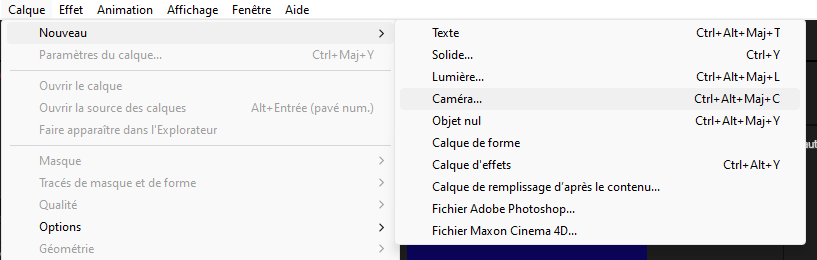
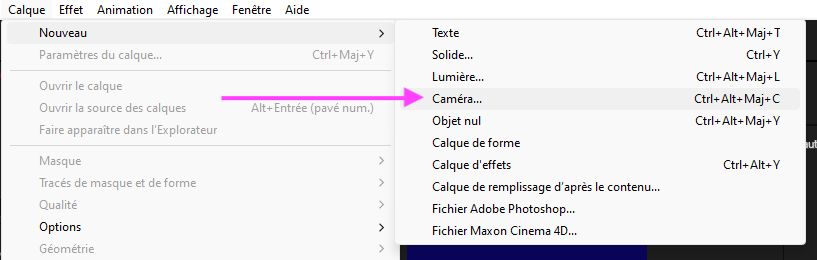
cours11

Changed region(s): [[0.2754, 0.3385, 0.5202, 0.4]]

diff --git a/docs/582-214-animation2d-jf-mm/exercices_ae/tp2/step1.md b/docs/582-214-animation2d-jf-mm/exercices_ae/tp2/step1.md
@@ -33,6 +33,8 @@ Pour orienter votre brainstorming, voici quelques sujets à considérer :
 
 - [ ] Créer un documents avec les informations ci-dessus.
 
+---
+
 Voici une liste de vidéo explainer pour vous aider à faire vos choix :
 
 * [Understanding Perception: How We Experience the Meaning We Create](https://motionographer.com/2015/09/18/understanding-perception-how-we-experience-the-meaning-we-create/)
@@ -46,6 +48,19 @@ Voici une liste de vidéo explainer pour vous aider à faire vos choix :
 * [What would happen if you didn’t drink water?](https://www.youtube.com/watch?v=9iMGFqMmUFs)
 * [The science of laughter](https://www.youtube.com/watch?v=Xu-QfE_1ksk)
 * [Animation vs. Physics](https://www.youtube.com/watch?v=ErMSHiQRnc8)
+* sinon : https://vimeo.com/search?q=explainer%20video
+
+### Esthétisme
+
+Dans la phase de brainstorming, vous devrez également penser à l'aspect graphique de votre animation. Il existe de nombreux styles possible, voici une liste suggérée :
+
+* Animation 2D (style bande dessinée)
+* Motion Graphics (vectoriel avec des formes simples, comme le kino)
+* Kinetic text (animation de texte)
+* Whiteboard animation (simulation d'un dessin synchro avec l'audio)
+* Collage animation (à la south park)
+
+- [ ] Choisir l'esthétisme recherché.
 
 ## Moodboard
 
@@ -60,7 +75,7 @@ Il contient des images, couleurs et typographies qui traduisent l’esthétique 
 * [Exemple 1](https://www.figma.com/board/QCUCe07qWFr5S3OCBpxcgj/Mood-Board--Exemple2-?t=fZTJa3oEaMMKYAyr-6)
 * [Exemple 2](https://www.figma.com/board/DboRKo6NLn4WRTPzqdMBWf/Mood-Board--Exemple1-?t=fZTJa3oEaMMKYAyr-6)
 
-- [ ] Faire un moodboard.
+- [ ] Faire un moodboard à partir du modèle fourni.
 
 ## Recherche et création de médias
 
@@ -87,11 +102,15 @@ Il contient des images, couleurs et typographies qui traduisent l’esthétique 
   * [Unsplash](https://unsplash.com/)
   * [Pexels](https://www.pexels.com/fr-fr/)
 
-## Script et storyboard
+## Storyboard
 
-![](./writing.gif){.w-100}
+![](./storyboard.gif){.w-100}
 
-Voici la structure narrative que vous devrez respecter :
+Un storyboard est un outil de planification visuelle utilisé pour représenter scène par scène une vidéo ou une animation.
+
+Dans cette partie, vous devrez d'abord rédiger un scénario (appelé structure narrative) et ensuite dessiner un storyboard.
+
+### Structure narrative
 
 | Étape                         | Fonction narrative                           | Contenu typique                                             |
 |-------------------------------|----------------------------------------------|-------------------------------------------------------------|
@@ -104,18 +123,22 @@ Voici la structure narrative que vous devrez respecter :
 | **7. Ouverture / Conclusion** | Imaginer un futur meilleur                   | Montrer une version positive du monde si on agit            |
 | **8. Crédits**                | n/a                                          | n/a                                                         |
 
+### Ligne du temps
+
+![](./timeline.jpg){.w-100}
+
 Sur une feuille de papier ou à l'ordinateur, commencez par faire une ligne du temps horizontale de 0 à 60 secondes.
 
 Placez ensuite chacune des étapes dans votre ligne du temps.
 
-Pour chaque élément placé, écrivez les grandes lignes de votre histoire. Des informations à raconter.
+Pour chaque étape, écrivez les grandes lignes de votre histoire. Les informations à raconter et comment les présenter.
 
-Une bonne manière de timer son animation est de générer le texte avant de faire l'animation !
+!!! top "Petit truc"
 
-- [ ] Créez une **ligne du temps horizontale** (0 à 60 secondes)
-- [ ] Placez chaque étape du scénario dans cette ligne
-- [ ] Pour chaque étape, écrivez les **idées de narration** et **visuels**
-- [ ] Rédigez votre **storyboard**
+    Une approche efficace pour gérer le temps consiste à rédiger d’abord le texte, générer l'audio puis déterminer ensuite comment il s’intégrera dans l’animation.
+
+- [ ] Écrivez le **contenu narratif** et imaginez les **visuels** pour chacune des étapes. (Restez réaliste ;))
+- [ ] En rédigeant votre **storyboard**, esquissez à quoi devra ressembler l'animation prévue. Vous pouvez également ajouter des liens ou images pour illustrer l'intention.
 
 ### Exemple de scénario
 
@@ -125,42 +148,49 @@ Source : [canadiangeographic.ca](https://canadiangeographic.ca/articles/plastic-
 
 **1. Accroche**
 
-* Narration : Chaque minute, un camion entier de plastique est déversé dans l’océan — ce qui représente entre 8 et 10 millions de tonnes, annuellement ! (8 sec)
-* Visuel : Un gros camion jaune. Les déchets tombent dans une mer calme qui devient trouble.
+* **Narration** : Chaque minute, un camion entier de plastique est déversé dans l’océan — ce qui représente entre 8 et 10 millions de tonnes, annuellement ! (8 sec)
+* **Visuel** : Un gros camion jaune. Les déchets tombent dans une mer calme qui devient trouble.
+* :material-image-edit: Images ou URLs pour illustrer le visuel.
 
 **2. Problème**
 
-* Narration : Tortues, baleines, oiseaux marins. Des centaines d’espèces sont victimes de cette marée de plastique.
-* Visuel : Tortue avec une paille dans le nez. Oiseau piégé dans un attache canettes. Fondu lent vers une mer polluée.
+* **Narration** : Tortues, baleines, oiseaux marins. Des centaines d’espèces sont victimes de cette marée de plastique.
+* **Visuel** : Tortue avec une paille dans le nez. Oiseau piégé dans un attache canettes. Fondu lent vers une mer polluée.
+* :material-image-edit: Images ou URLs pour illustrer le visuel.
 
 **3. Causes**
 
-* Narration : Tout commence avec notre consommation. C'est l'emballages à usage unique, les objets jetables ou encore, le manques de tri qui explique sa présence en mer.
-* Visuel : Sac en plastique d'épicerie avec des fruits qui s'y ajoutent. Pluie de produits de plastique avec des mains qui tentent d'attraper les items.
+* **Narration** : Tout commence avec notre consommation. C'est l'emballages à usage unique, les objets jetables ou encore, le manques de tri qui explique sa présence en mer.
+* **Visuel** : Sac en plastique d'épicerie avec des fruits qui s'y ajoutent. Pluie de produits de plastique avec des mains qui tentent d'attraper les items.
+* :material-image-edit: Images ou URLs pour illustrer le visuel.
 
 **4. Conséquences**
 
-* Narration : Si rien ne change, en 2050, il y aura plus de plastique que de poissons dans les océans.
-* Visuel : Projection futuriste : bancs de bouteilles, océans envahis de déchets.
+* **Narration** : Si rien ne change, en 2050, il y aura plus de plastique que de poissons dans les océans.
+* **Visuel** : Animation de calendrier. Projection futuriste : bancs de bouteilles, océans envahis de déchets. Poissons à 3 yeux.
+* :material-image-edit: Images ou URLs pour illustrer le visuel.
 
 **5. Solution / Changement**
 
-* Narration : Mais il est encore temps d’agir. Refuser, réduire, réutiliser… Chaque geste compte.
-* Visuel : Gourde en métal, sac en tissu, marché sans emballages.
+* **Narration** : Mais il est encore temps d’agir. Refuser, réduire, réutiliser… Chaque geste compte.
+* **Visuel** : Gourde en métal, sac en tissu, marché sans emballages.
+* :material-image-edit: Images ou URLs pour illustrer le visuel.
 
 **6. Appel à l’action**
 
-* Narration : À l’école, à la maison, dans ton quartier : tu peux faire la différence, dès aujourd’hui.
-* Visuel : Plage nettoyée, jeunes qui sensibilisent leur entourage.
+* **Narration** : À l’école, à la maison, dans ton quartier : tu peux faire la différence, dès aujourd’hui.
+* **Visuel** : Plage nettoyée, jeunes qui sensibilisent leur entourage.
+* :material-image-edit: Images ou URLs pour illustrer le visuel.
 
 **7. Ouverture / Conclusion**
 
-* Voix off : Un océan sans plastique, c’est possible. Un monde plus propre commence par une seule action.
-* Visuel : Mer limpide, faune marine en santé, texte à l’écran : « L’océan, c’est la vie. Protégeons-le. »
+* **Narration** : Un océan sans plastique, c’est possible. Un monde plus propre commence par une seule action.
+* **Visuel** : Mer limpide, faune marine en santé, texte à l’écran : « L’océan, c’est la vie. Protégeons-le. »
+* :material-image-edit: Images ou URLs pour illustrer le visuel.
 
 **8. Crédits**
 
-* Visuel : Nos noms
+* **Visuel** : Nos noms
 
 ## Remise
 
@@ -168,4 +198,9 @@ Cette remise est formative.
 
 Dépot le 15 avril à 23h59.
 
-Une rétroaction avec l'enseignant(e) sera faite en classe.
+Fichiers :
+
+* Docx : Inspirations, scénario et storyboard
+* Moodboard exporté en image
+
+> Une rétroaction avec l'enseignant(e) sera faite en classe.

diff --git a/docs/582-214-animation2d-jf-mm/cours11.md b/docs/582-214-animation2d-jf-mm/cours11.md
@@ -28,25 +28,43 @@ La Boussole électorale est un outil développé par des politologues pour vous 
 
 ## Camera
 
-![](./assets/3d.png){ data-zoom-image }
+![](./assets/images/3d.png){ data-zoom-image }
 
 Pour activer le mode caméra, il suffit d'ajouter un calque de caméra.
 
+![](./assets/images/camlayer.png){ data-zoom-image }
+
 Ensuite, activer les options 3d des calques qui doivent être affectés par la caméra.
+
+![](./assets/images/active3d.png){ data-zoom-image }
 
 Finalement, pour bien voir ce qui se produit et pour bien animer le tout, il est préférable de changer la disposition des vues de 1 vue à 4 vues.
 
+![](./assets/images/4%20vues.png){ data-zoom-image }
+
 ## Line art
 
-[:material-play-circle: Le safe-title](https://cmontmorency365-my.sharepoint.com/:v:/r/personal/mariem_ouellet_cmontmorency_qc_ca/Documents/01_cours/Cours%20Animation%202D/animation%202D%202025/02_capsules_video/02_capsules_after_effects/31_effets/06_animation_line_art/01_animation_line_art_visage.mov?csf=1&web=1&nav=eyJyZWZlcnJhbEluZm8iOnsicmVmZXJyYWxBcHAiOiJPbmVEcml2ZUZvckJ1c2luZXNzIiwicmVmZXJyYWxBcHBQbGF0Zm9ybSI6IldlYiIsInJlZmVycmFsTW9kZSI6InZpZXciLCJyZWZlcnJhbFZpZXciOiJNeUZpbGVzTGlua0NvcHkifX0&e=sM7mSg)
+[:material-play-circle: Line art - Tutoriel 1/2](https://cmontmorency365-my.sharepoint.com/:v:/r/personal/mariem_ouellet_cmontmorency_qc_ca/Documents/01_cours/Cours%20Animation%202D/animation%202D%202025/02_capsules_video/02_capsules_after_effects/31_effets/06_animation_line_art/01_animation_line_art_visage.mov?csf=1&web=1&nav=eyJyZWZlcnJhbEluZm8iOnsicmVmZXJyYWxBcHAiOiJPbmVEcml2ZUZvckJ1c2luZXNzIiwicmVmZXJyYWxBcHBQbGF0Zm9ybSI6IldlYiIsInJlZmVycmFsTW9kZSI6InZpZXciLCJyZWZlcnJhbFZpZXciOiJNeUZpbGVzTGlua0NvcHkifX0&e=sM7mSg)
 
-[:material-play-circle: Le safe-title](https://cmontmorency365-my.sharepoint.com/:v:/r/personal/mariem_ouellet_cmontmorency_qc_ca/Documents/01_cours/Cours%20Animation%202D/animation%202D%202025/02_capsules_video/02_capsules_after_effects/31_effets/06_animation_line_art/02_animation_line_art_fleur.mov?csf=1&web=1&nav=eyJyZWZlcnJhbEluZm8iOnsicmVmZXJyYWxBcHAiOiJPbmVEcml2ZUZvckJ1c2luZXNzIiwicmVmZXJyYWxBcHBQbGF0Zm9ybSI6IldlYiIsInJlZmVycmFsTW9kZSI6InZpZXciLCJyZWZlcnJhbFZpZXciOiJNeUZpbGVzTGlua0NvcHkifX0&e=erARCl)
+[:material-play-circle: Line art - Tutoriel 2/2](https://cmontmorency365-my.sharepoint.com/:v:/r/personal/mariem_ouellet_cmontmorency_qc_ca/Documents/01_cours/Cours%20Animation%202D/animation%202D%202025/02_capsules_video/02_capsules_after_effects/31_effets/06_animation_line_art/02_animation_line_art_fleur.mov?csf=1&web=1&nav=eyJyZWZlcnJhbEluZm8iOnsicmVmZXJyYWxBcHAiOiJPbmVEcml2ZUZvckJ1c2luZXNzIiwicmVmZXJyYWxBcHBQbGF0Zm9ybSI6IldlYiIsInJlZmVycmFsTW9kZSI6InZpZXciLCJyZWZlcnJhbFZpZXciOiJNeUZpbGVzTGlua0NvcHkifX0&e=erARCl)
+
+## Illustrator 🫠
+
+![](./assets/images/ezlayers.png){ data-zoom-image }
+
+Pour transformer rapidement des groupes en calques dans Adobe Illustrator, suivez ces étapes :
+
+1. **Sélection des groupes** : Dans le panneau Calques, sélectionnez les groupes que vous souhaitez convertir en calques distincts. 
+1. **Accès au menu des options** : Cliquez sur l’icône de menu (représentée par trois lignes horizontales) en haut à droite du panneau Calques. 
+1. **Décomposition en calques** : Choisissez l’option « Décomposer en calques (séquence) ». Cette commande répartit chaque élément du groupe sur son propre calque, facilitant ainsi leur gestion individuelle.  
+1. **Réorganisation des calques** : Les nouveaux calques créés sont imbriqués sous le calque principal. Pour les déplacer au niveau supérieur, sélectionnez-les et faites-les glisser en dehors du calque parent, ou utilisez la commande « Rassembler sur un nouveau calque » pour les regrouper.  
+
+Source : <https://helpx.adobe.com/lu_fr/illustrator/using/layers.html>
 
 ## Devoir
 
 <div class="grid grid-1-2" markdown>
   ![](./exercices_ae/tp2/explainer.gif)
 
-  <small>TP - After Effects</small><br>
-  **[TP2](./exercices_ae/tp2/index.md){.stretched-link .back}**
+  **[TP2 - Préproduction](./exercices_ae/tp2/index.md){.stretched-link .back}**
 </div>

diff --git a/docs/582-214-animation2d-jf-mm/exercices_ae/tp2/index.md b/docs/582-214-animation2d-jf-mm/exercices_ae/tp2/index.md
@@ -6,7 +6,7 @@ Vous devez réaliser une vidéo explicative animée (_explainer video_).
 
 Cette vidéo doit expliquer clairement un sujet, à l’aide de visuels animés, d’un design cohérent et d’une rythmique uniforme.
 
-Le sujet peut être **éducatif**, **engagé** ou **humoristique**.
+Le sujet peut être 🎓 **éducatif**, ✊ **engagé** ou 😂 **humoristique**.
 
 !!! success "Portfolio"
 
@@ -22,22 +22,24 @@ Ce travail doit être réalisé en équipe de 2 et compte pour 50 % de la note f
 * Durée : 60 secondes
 * Exportation : Vimeo 1080p Full HD
 
-Médias à utiliser
+Médias à utiliser :
 
 * Narration obligatoire (francophone)
 * Trames et effets sonores
 * Visuels originaux ou téléchargés
-* Police de caractères
+* Police de caractères stylées
 
 [^tts]: [:hugging: TTS sur Hugging Face](https://huggingface.co/spaces?q=text+to+speech)
 
 ## Calendrier
 
-Cours 11 - 9 avril : Petit cours et début de la préproduction
-Cours 12 - 16 avril : Petit cours et remise de la preuve de concept.
-Cours 13 - 30 avril : Remise de les médias. Développement des animations
-Cours 14 - 7 mai : Développement des animations
-Cours 15 - 16 mai : Remise et présentation en classe
+* Cours 11 - 9 avril : Petit cours et début de la préproduction.
+* Cours 12 - 16 avril : Petit cours et remise de la preuve de concept avec les médias.
+* Cours 13 - 30 avril : Développement des animations.
+* Cours 14 - 7 mai : Développement des animations.
+* Cours 15 - 16 mai : Remise et présentation en classe.
+
+> Vous avez plus d'un mois pour réaliser le TP2
 
 ## Étapes du TP
 

diff --git a/docs/582-214-animation2d-jf-mm/exercices_ae/tp2/step2.md b/docs/582-214-animation2d-jf-mm/exercices_ae/tp2/step2.md
@@ -1,3 +1,5 @@
 # TP2 - Animation
 
-À venir la semaine prochaine : consignes et grille d'évaluation
+À venir.
+
+Les consignes avec la grille d'évaluation vous seront présentées le 16 avril. - JF

diff --git a/docs/582-214-animation2d-jf-mm/exercices_ae/tp2/step3.md b/docs/582-214-animation2d-jf-mm/exercices_ae/tp2/step3.md
@@ -1,3 +1,3 @@
 # TP2 - Animation
 
-À venir
+À venir.
